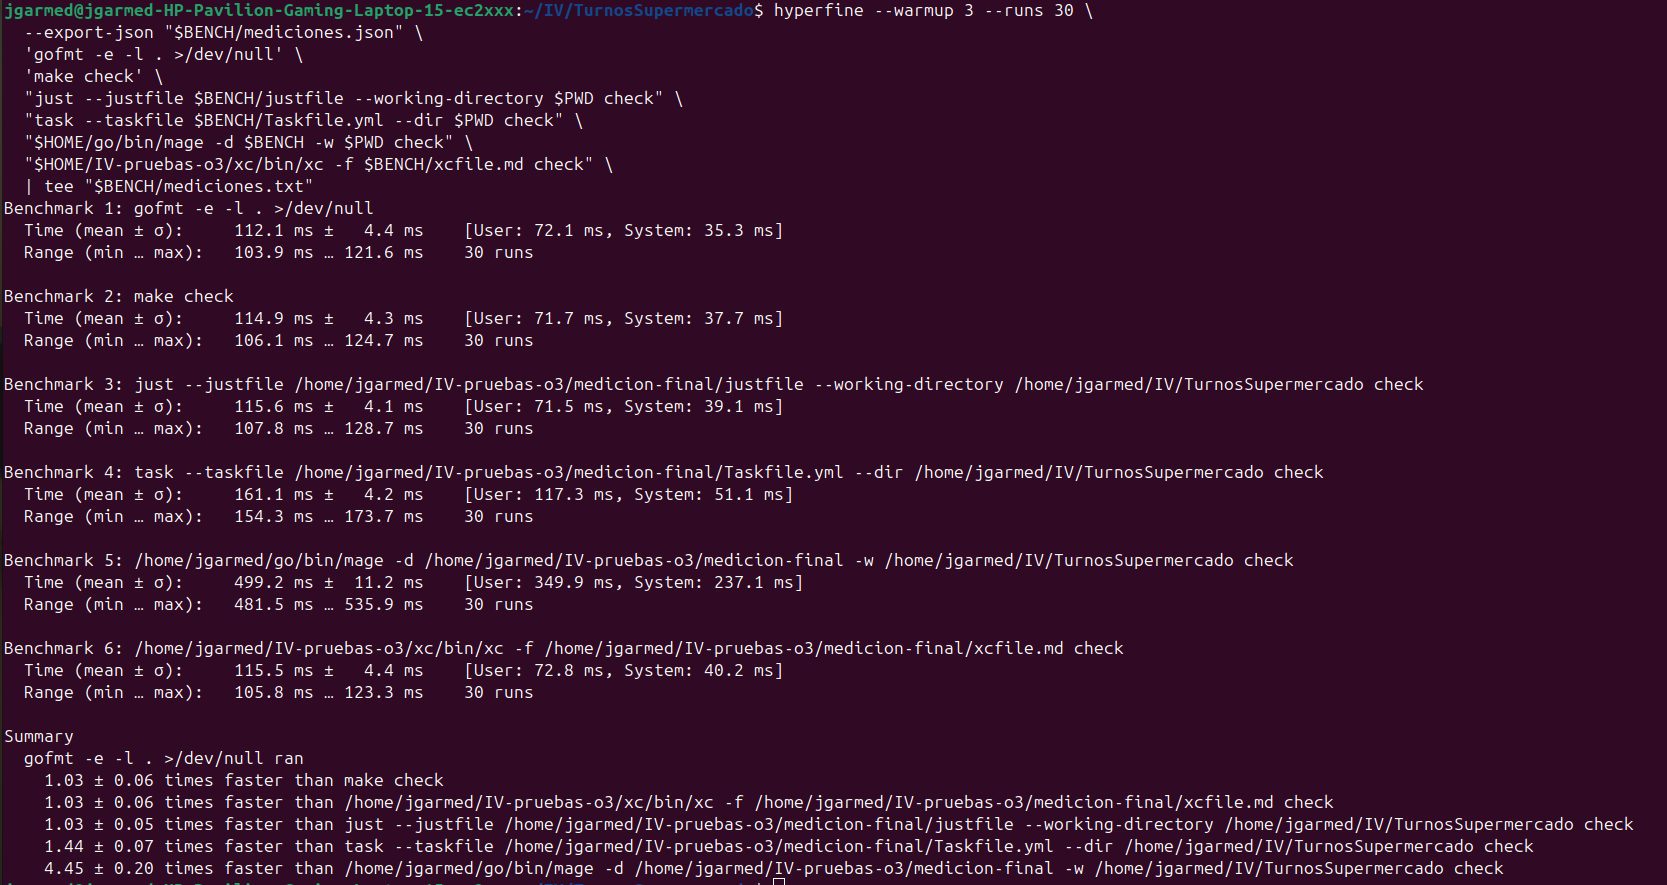
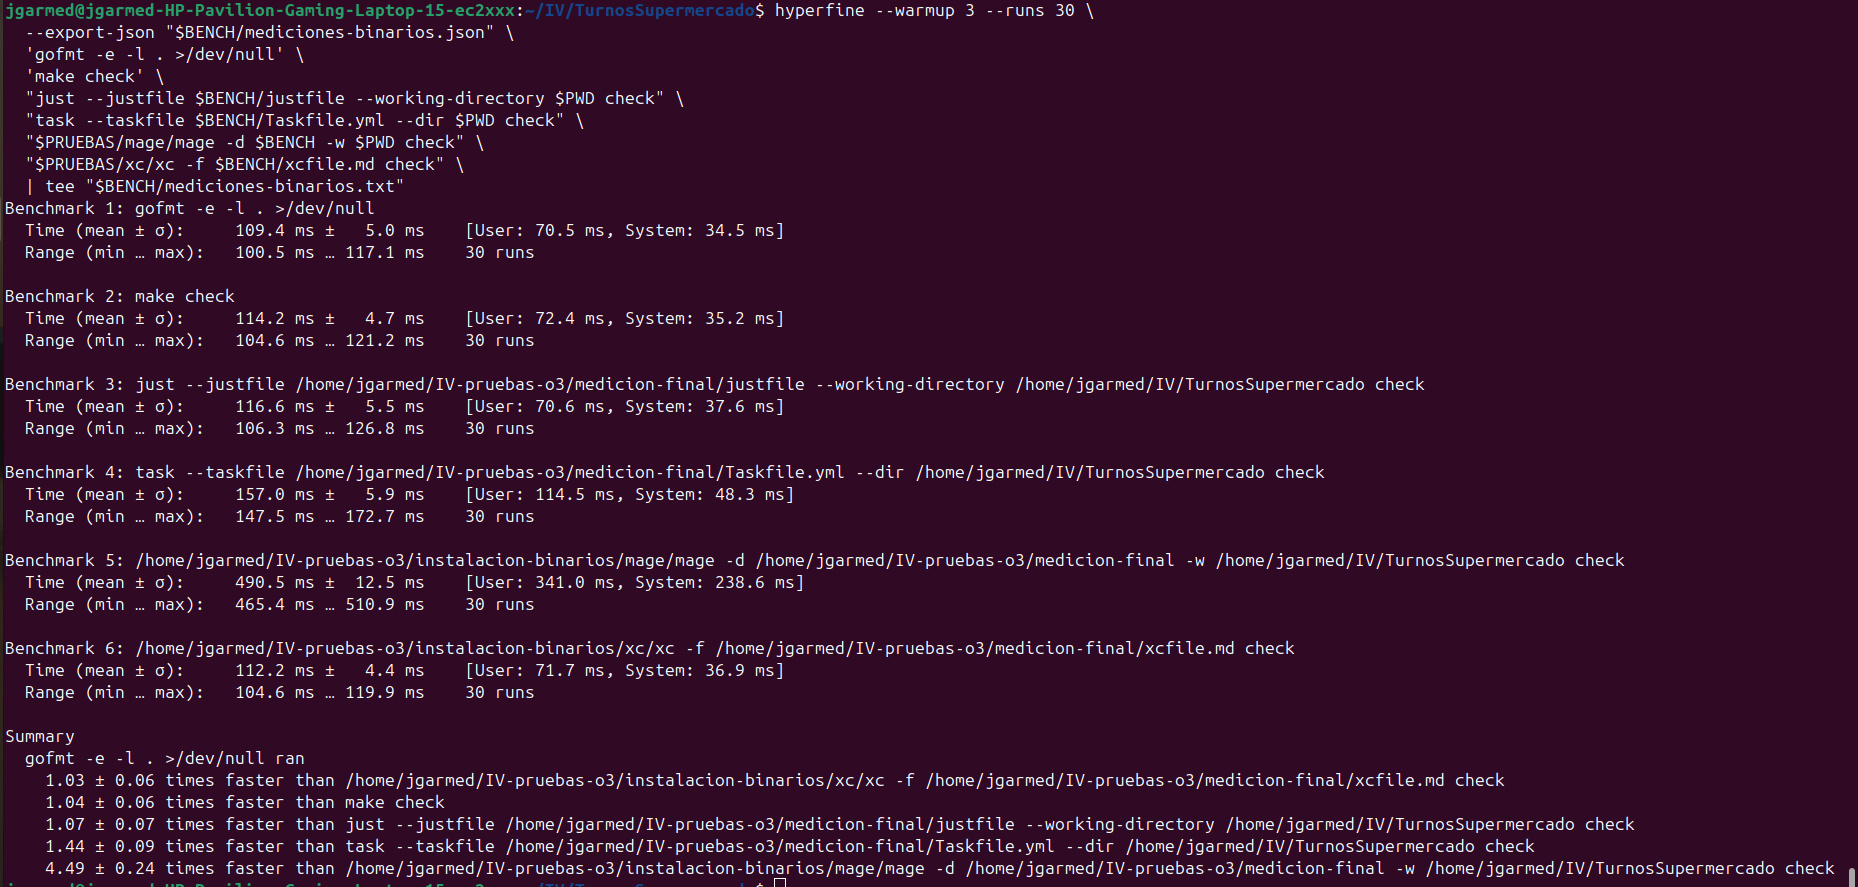
refs #23: mide la instalación de los binarios de XC y Mage

diff --git a/docs/automatizacion.md b/docs/automatizacion.md
@@ -29,23 +29,23 @@ Para comparar las cinco herramientas utilicé `gofmt -e -l .`, que comprueba la 
 
 Los resultados fueron:
 
-- Sin gestor: **112,1 ± 4,4 ms**.
-- Make: **114,9 ± 4,3 ms**.
-- Just: **115,6 ± 4,1 ms**.
-- Task: **161,1 ± 4,2 ms**.
-- Mage: **499,2 ± 11,2 ms**.
-- XC: **115,5 ± 4,4 ms**.
+- Sin gestor: **109,4 ± 5,0 ms**.
+- Make: **114,2 ± 4,7 ms**.
+- Just: **116,6 ± 5,5 ms**.
+- Task: **157,0 ± 5,9 ms**.
+- Mage: **490,5 ± 12,5 ms**.
+- XC: **112,2 ± 4,4 ms**.
 
 ![Comparación de los gestores de tareas](capturas/ejecucion-sintaxis.png)
 
 ## Instalación de las herramientas
 
-En mi Ubuntu ya tenía Make instalado. Para probar las otras herramientas instalé Just con `apt`, Task con su instalador y Mage con `go install`.
+En mi Ubuntu ya tenía Make instalado. Instalé Just con `apt` y Task con su instalador. Mage v1.17.2 lo descargué como binario desde GitHub Releases.
 
 Medí estos tiempos de instalación:
 
 - Task: **5,124 s**.
-- Mage: **6,544 s**.
+- Mage: **1,08 s**.
 
 ![Instalación de Task](capturas/instalacion-task.png)
 
@@ -57,7 +57,7 @@ Además, comprobé las herramientas disponibles en `golang:1.27.4-bookworm`. Esa
 
 ![Herramientas disponibles en la imagen de Go](capturas/entorno-go.png)
 
-XC v0.9.0 lo instalé con `go install` en mi Ubuntu y tardó **6,030 s**.
+XC v0.9.0 lo descargué como binario para Linux desde GitHub Releases, sin compilarlo, y tardó **1,41 s**.
 
 ![Instalación de XC](capturas/xc-instalacion.png)
 
